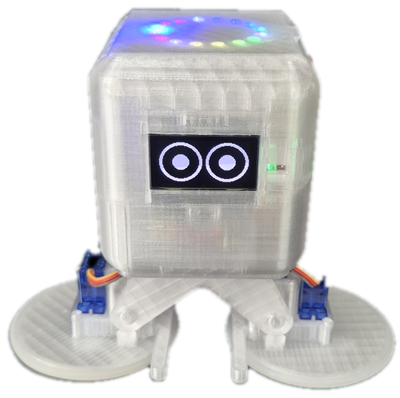
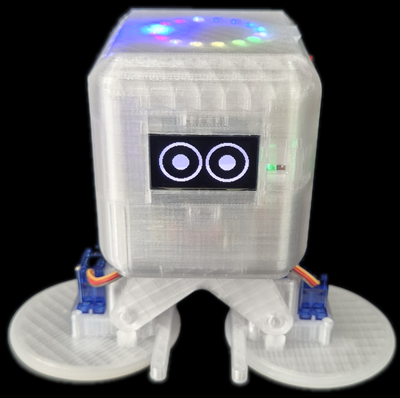
흰 배경 로봇 사진을 새 파일로 추가하고 README 링크 변경
images/otto-photo-white.png 추가, README가 이 파일을 사용. 기존 otto-photo.png(검은 배경)는 원래대로 복원.

diff --git a/README.md b/README.md
@@ -4,7 +4,7 @@
 
 [i2r-05](https://github.com/kdi6033/i2r-05) 보드(ESP32-S3)와 서보모터 4개로 만든 Otto 로봇의 문서 모음입니다.
 
-<img src="images/otto-photo.png" height="450">&nbsp;&nbsp;&nbsp;&nbsp;&nbsp;&nbsp;&nbsp;&nbsp;&nbsp;&nbsp;&nbsp;&nbsp;&nbsp;&nbsp;<img src="images/otto-servos.png" height="400">
+<img src="images/otto-photo-white.png" height="450">&nbsp;&nbsp;&nbsp;&nbsp;&nbsp;&nbsp;&nbsp;&nbsp;&nbsp;&nbsp;&nbsp;&nbsp;&nbsp;&nbsp;<img src="images/otto-servos.png" height="400">
 
 ## 서보모터 4개
 
